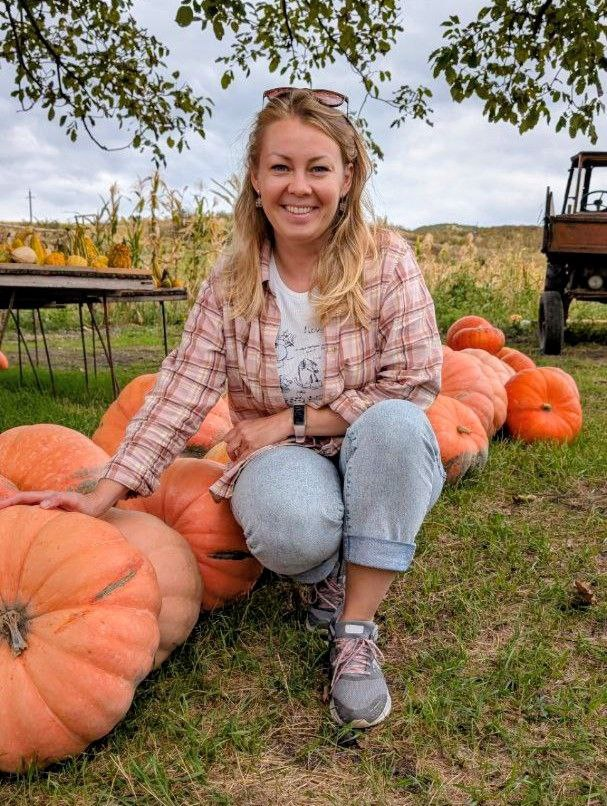
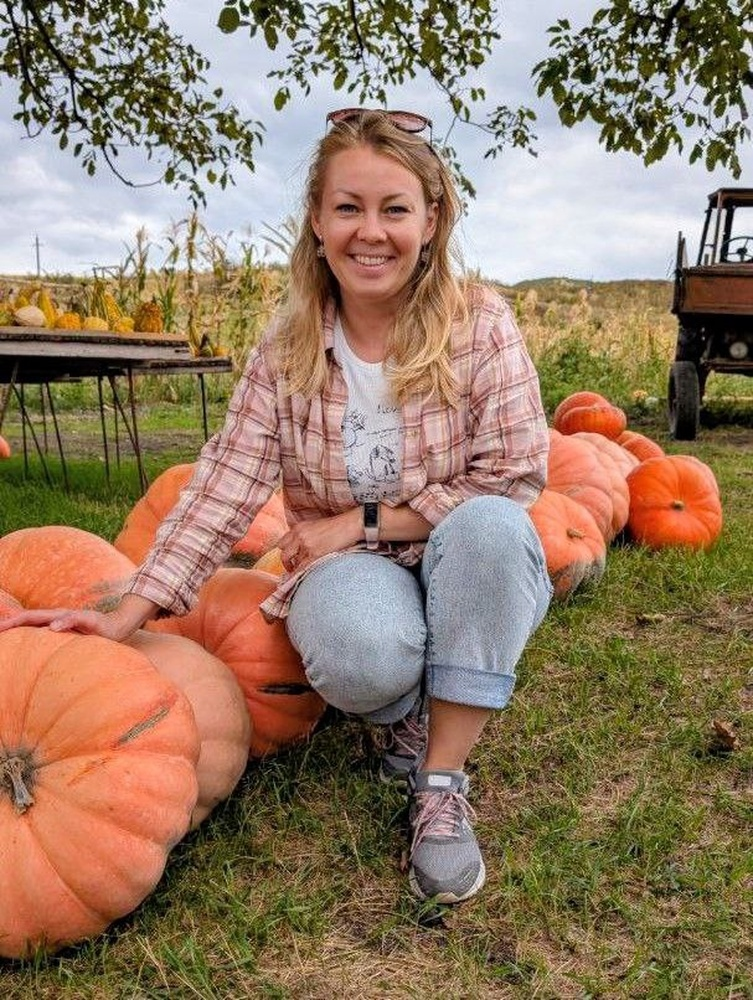
3

Changed region(s): [[0.5931, 0.9305, 0.6227, 0.9615], [0.5041, 0.9305, 0.5338, 0.9615]]

diff --git a/index.html b/index.html
@@ -435,6 +435,11 @@
               </div>
             </details>
           </article>
+
+          <div class="card card-custom-route">
+            <p class="card-lead">Разработка маршрута по вашему запросу</p>
+            <a href="https://t.me/soulmate_travel_georgia" target="_blank" rel="noreferrer" class="booking-button">Обсудить маршрут</a>
+          </div>
         </div>
       </section>
 

diff --git a/styles.css b/styles.css
@@ -185,6 +185,14 @@ h4 {
   margin-bottom: 0;
 }
 
+.card-custom-route {
+  text-align: center;
+}
+
+.card-custom-route .card-lead {
+  margin-bottom: 16px;
+}
+
 .card-header {
   margin-bottom: 16px;
 }
